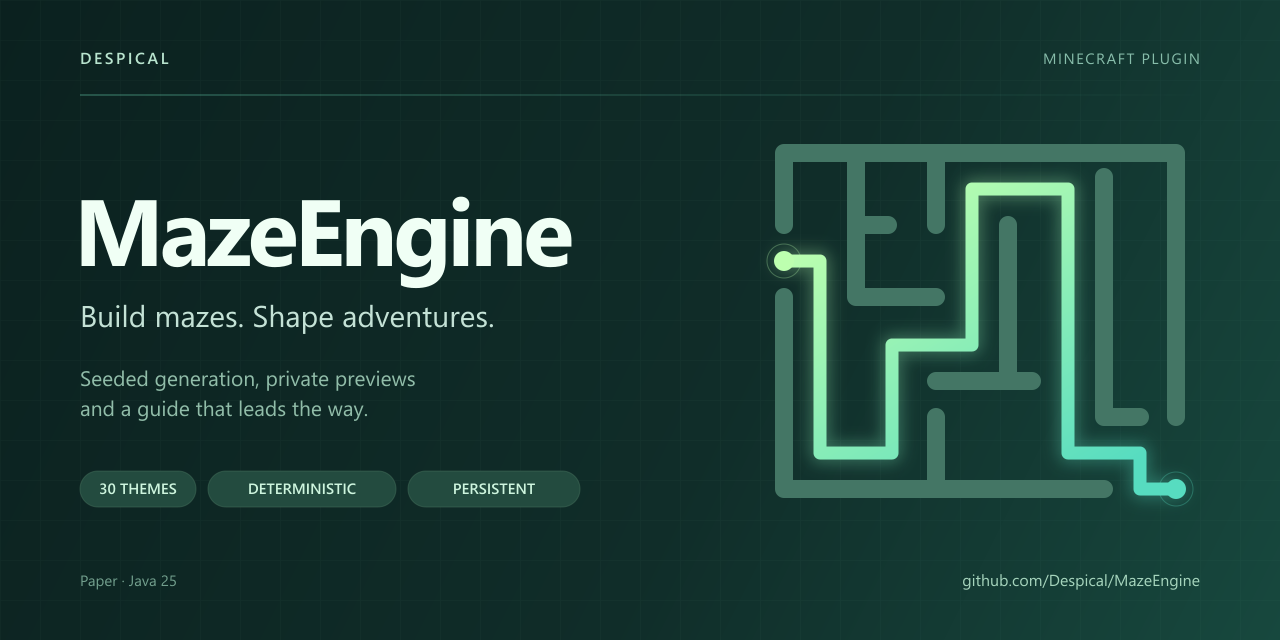
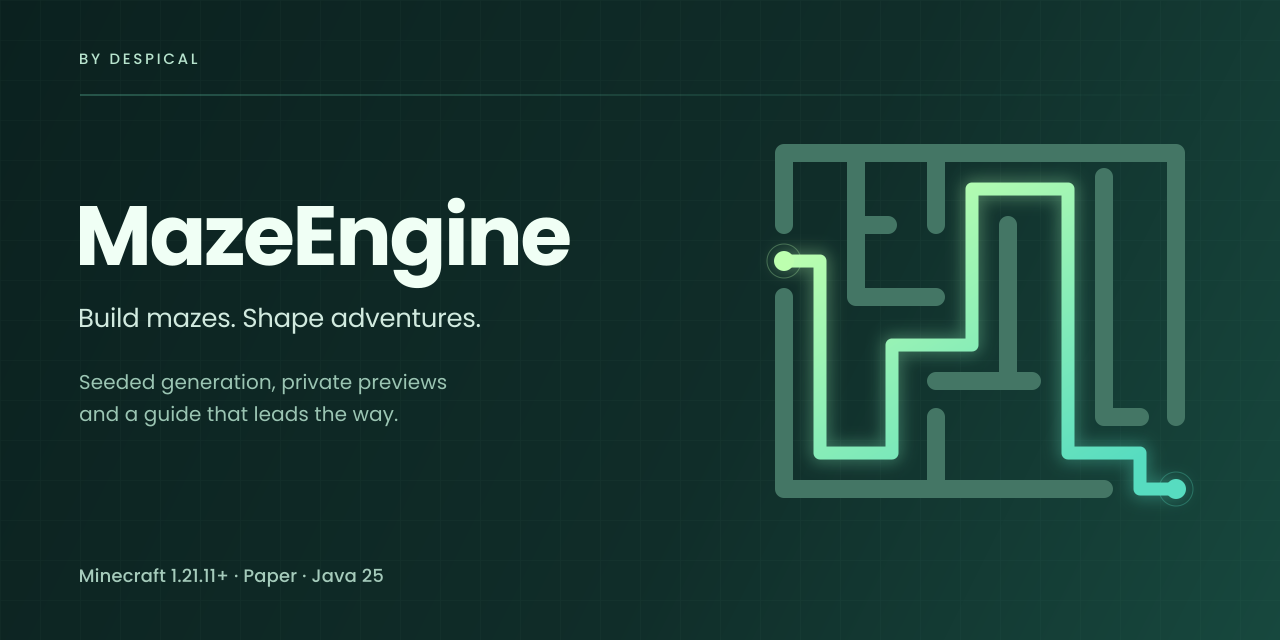
Refine documentation, plugin metadata and project artwork

diff --git a/README.md b/README.md
@@ -31,7 +31,7 @@ Read the [documentation](https://docs.despical.dev/maze-engine/) for setup instr
 
 ## Installation
 
-MazeEngine supports Paper 1.21.11 and newer, including 26.x. Use Java 25 to run your server and build the project. Spigot and Folia are not supported.
+MazeEngine supports [Paper 1.21.11 and newer](https://papermc.io/downloads/paper). Use [Java 25](https://adoptium.net/temurin/releases/?version=25) to run your server and build the project. Spigot and Folia are not supported.
 
 Build the plugin, copy `build/libs/mazeengine-1.0.0.jar` into `plugins/` and restart. Missing settings and presets are installed under `plugins/MazeEngine/`; existing files are preserved.
 
@@ -148,6 +148,8 @@ Install [PlaceholderAPI](https://wiki.placeholderapi.com/) to use these placehol
 | `%mazeengine_current_<field>%` | Field from the maze the player is currently inside. |
 | `%mazeengine_maze_<name>_<field>%` | Field from a named maze, for example `%mazeengine_maze_garden_theme%`. |
 
+Replace `<field>` with one of the suffixes below to choose the value you want to display.
+
 | Field | Value |
 | --- | --- |
 | `name` | Saved maze name. |
@@ -167,37 +169,23 @@ Current-maze and named-maze fields return empty text when no matching maze exist
 
 ---
 
-## Building
+## Build from Source
 
-Install Java 25 and Git, then clone the repository:
+Install [Java 25](https://adoptium.net/temurin/releases/?version=25) and [Git](https://git-scm.com/downloads).
 
-```bash
-git clone https://github.com/Despical/MazeEngine.git
-cd MazeEngine
-./gradlew clean build
-```
+1. Clone the repository with `git clone https://github.com/Despical/MazeEngine.git`.
+2. Enter the project folder with `cd MazeEngine`.
+3. Build the plugin:
 
-On Windows, use the batch wrapper after cloning and entering the repository:
+   ```bash
+   ./gradlew clean build
+   ```
 
-```cmd
-gradlew.bat clean build
-```
+   On Windows, use `gradlew.bat clean build`.
 
-Artifacts are created under `build/libs/`. The build runs unit tests and produces the plugin, API and source JARs. Javadocs are optional.
+The build runs unit tests and creates the plugin, API and source JARs under `build/libs/`.
 
-To generate API Javadocs under `build/docs/api/`:
-
-```bash
-./gradlew apiJavadoc
-```
-
-On Windows:
-
-```cmd
-gradlew.bat apiJavadoc
-```
-
-Use `javadocJar apiJavadocJar` with either wrapper to package the full-project and API Javadocs as JARs. GitHub Actions checks the build and documentation in separate steps.
+API Javadocs are optional: run `./gradlew apiJavadoc` (Windows: `gradlew.bat apiJavadoc`) to generate them under `build/docs/api/`. Use `javadocJar apiJavadocJar` with the wrapper if you also want documentation JARs.
 
 ---
 
